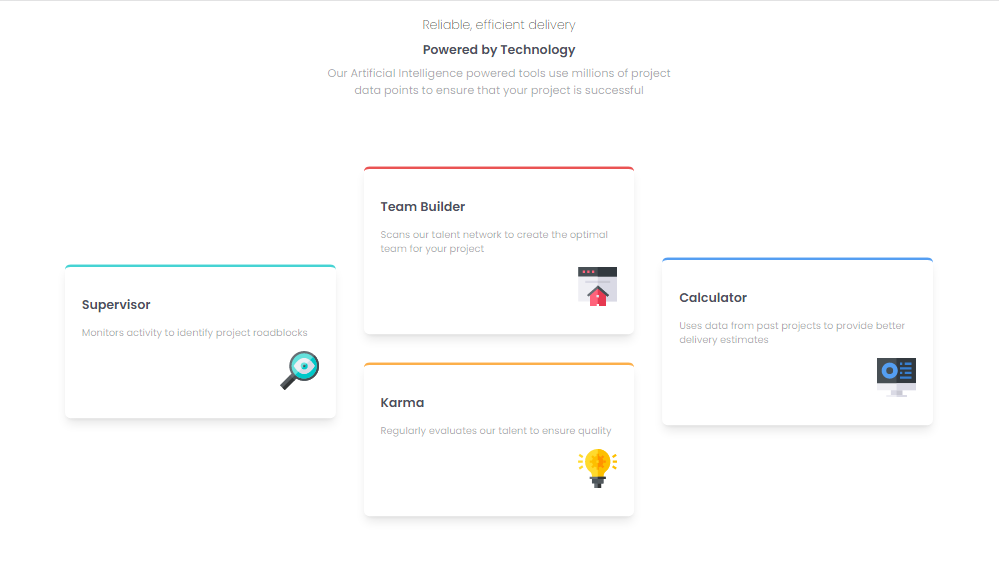
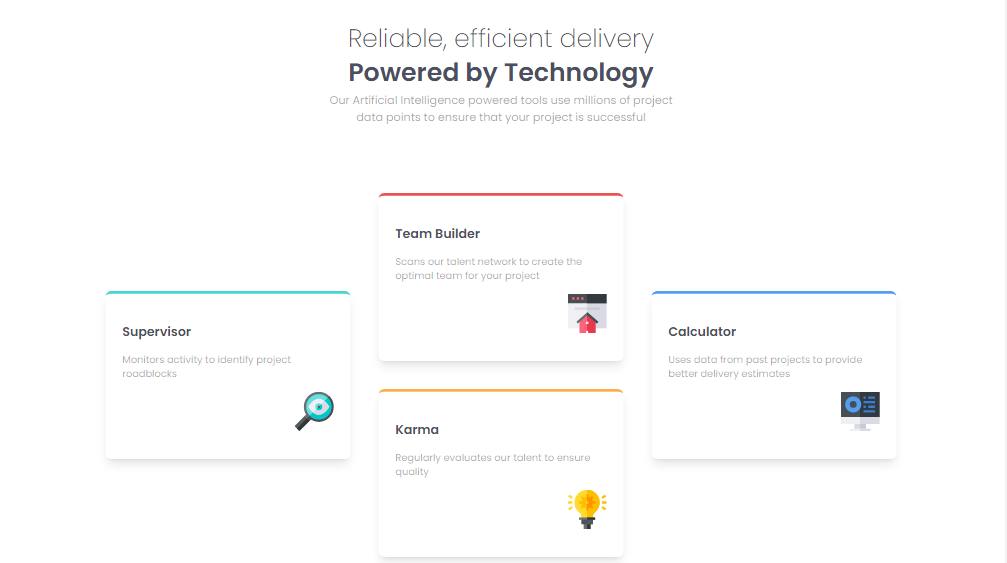
Added absolute path to my svgs

diff --git a/index.html b/index.html
@@ -24,16 +24,16 @@
 	<body>
 		<main class="font-sans">
 			<section
-				class="flex flex-col items-center justify-center gap-10 text-gray-blue mx-auto p-5 max-w-7xl md:justify-evenly"
+				class="flex flex-col items-center justify-center gap-10 text-gray-blue mx-auto p-5 md:p-10 max-w-7xl"
 			>
 				<!-- Top Header -->
 				<article
 					class="flex items-center justify-center mx-auto flex-col space-y-2 mb-14 md:max-w-lg"
 				>
-					<h1 class="font-extralight text-lg md:text-2xl">
+					<h1 class="font-extralight text-lg md:text-4xl">
 						Reliable, efficient delivery
 					</h1>
-					<h2 class="font-semibold text-lg md:text-2xl">
+					<h2 class="font-semibold text-lg md:text-4xl">
 						Powered by Technology
 					</h2>
 					<p class="lightText w-full text-center">
@@ -47,7 +47,7 @@
 				>
 					<!-- Supervisor -->
 					<div
-						class="px-6 w-full text-sm py-10 flex flex-col bg-white shadow-lg border-t-4 rounded-lg border-cyan space-y-4"
+						class="px-6 w-full text-sm py-10 flex flex-col bg-white shadow-lg border-t-4 rounded-lg border-cyan space-y-4 max-w-[350px]"
 					>
 						<h1 class="font-semibold text-lg">Supervisor</h1>
 						<p class="lightText w-full">
@@ -65,7 +65,7 @@
 					>
 						<!-- Team Builder -->
 						<div
-							class="px-6 w-full text-sm py-10 flex flex-col bg-white shadow-lg border-t-4 rounded-lg border-red space-y-4"
+							class="px-6 w-full text-sm py-10 flex flex-col bg-white shadow-lg border-t-4 rounded-lg border-red space-y-4 max-w-[350px]"
 						>
 							<h1 class="font-semibold text-lg">Team Builder</h1>
 							<p class="lightText w-full">
@@ -80,7 +80,7 @@
 						</div>
 						<!-- Karma -->
 						<div
-							class="px-6 w-full text-sm py-10 flex flex-col bg-white shadow-lg border-t-4 rounded-lg border-orange space-y-4"
+							class="px-6 w-full text-sm py-10 flex flex-col bg-white shadow-lg border-t-4 rounded-lg border-orange space-y-4 max-w-[350px]"
 						>
 							<h1 class="font-semibold text-lg">Karma</h1>
 							<p class="lightText w-full">
@@ -95,7 +95,7 @@
 					</aside>
 					<!-- Calculator -->
 					<div
-						class="px-6 w-full text-sm py-10 flex flex-col bg-white shadow-lg border-t-4 rounded-lg border-blue space-y-4"
+						class="px-6 w-full text-sm py-10 flex flex-col bg-white shadow-lg border-t-4 rounded-lg border-blue space-y-4 max-w-[350px]"
 					>
 						<h1 class="font-semibold text-lg">Calculator</h1>
 						<p class="lightText w-full">

diff --git a/css/styles.css b/css/styles.css
@@ -487,6 +487,9 @@ video {
 .max-w-7xl {
   max-width: 80rem;
 }
+.max-w-\[350px\] {
+  max-width: 350px;
+}
 .flex-col {
   flex-direction: column;
 }
@@ -580,13 +583,13 @@ video {
     max-width: 32rem;
   }
 
-  .md\:justify-evenly {
-    justify-content: space-evenly;
+  .md\:p-10 {
+    padding: 2.5rem;
   }
 
-  .md\:text-2xl {
-    font-size: 1.5rem;
-    line-height: 2rem;
+  .md\:text-4xl {
+    font-size: 2.25rem;
+    line-height: 2.5rem;
   }
 }
 @media (min-width: 1024px) {
